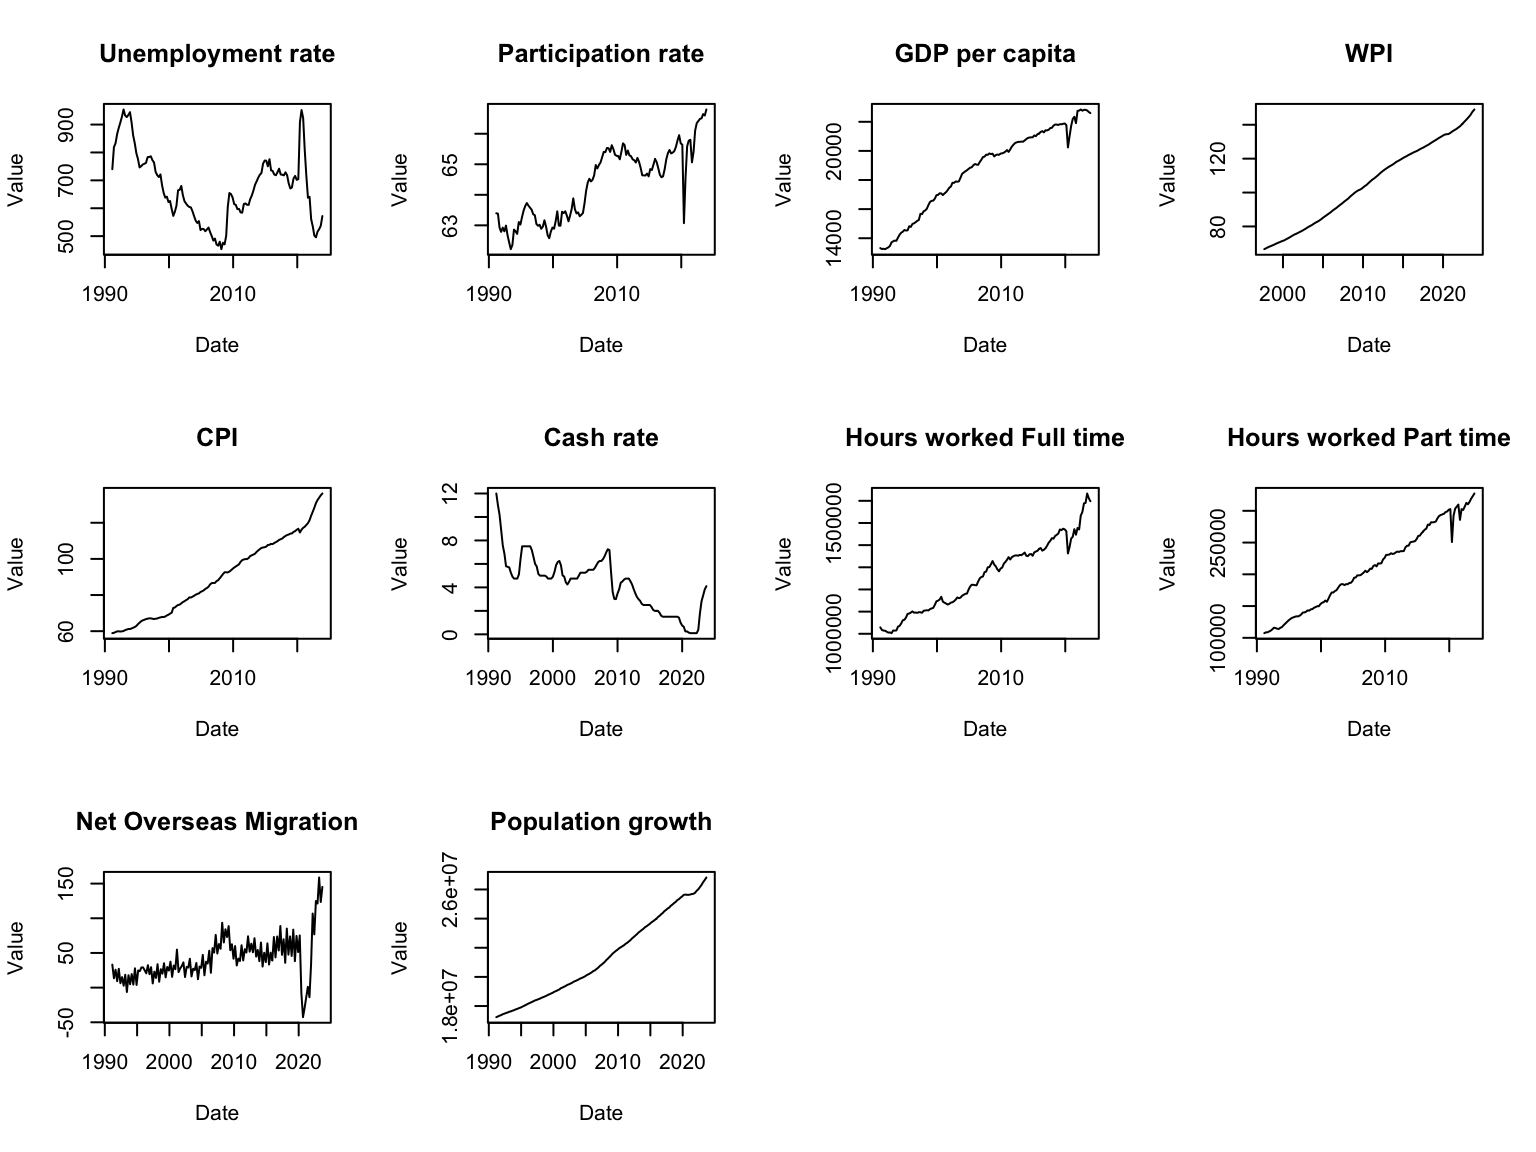
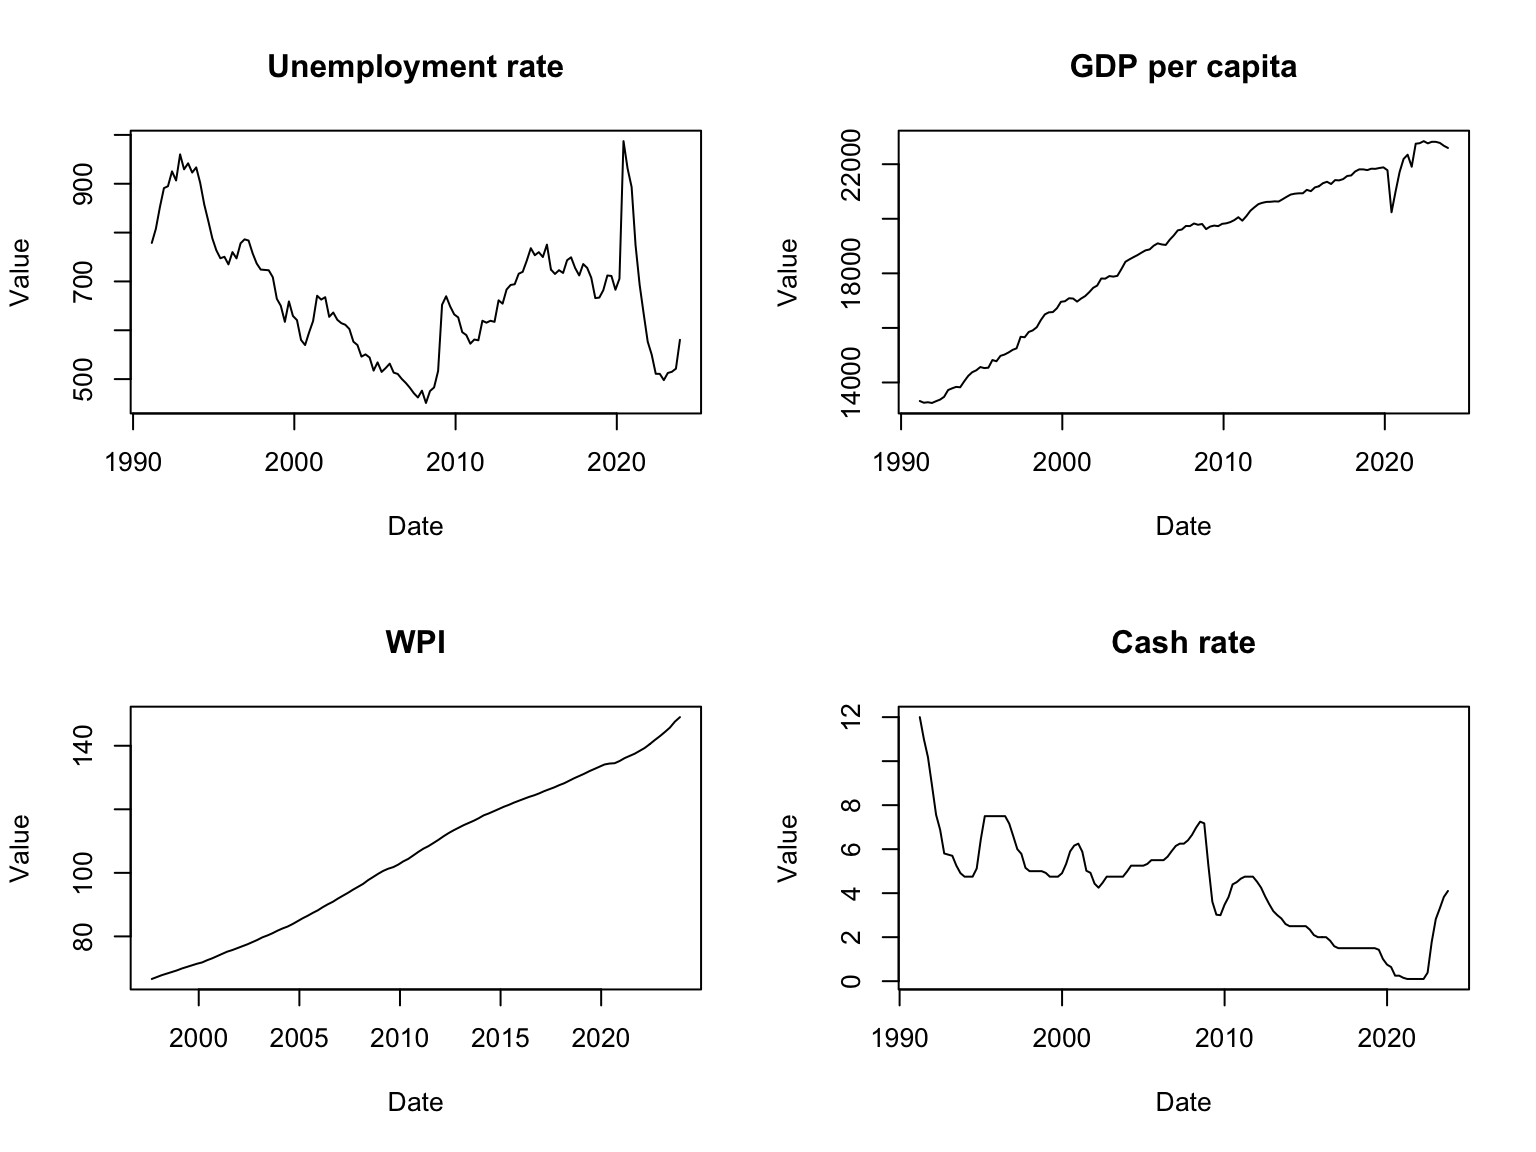
Dummy observation prior

diff --git a/docs/index.html b/docs/index.html
@@ -144,7 +144,7 @@ window.Quarto = {
   </ul></li>
   <li><a href="#extension-1-model" id="toc-extension-1-model" class="nav-link" data-scroll-target="#extension-1-model">Extension 1 Model</a>
   <ul class="collapse">
-  <li><a href="#minnesota-and-dummy-observation-prior-distribution" id="toc-minnesota-and-dummy-observation-prior-distribution" class="nav-link" data-scroll-target="#minnesota-and-dummy-observation-prior-distribution">Minnesota and Dummy Observation Prior distribution</a></li>
+  <li><a href="#minnesota-and-dummy-observation-prior-distribution" id="toc-minnesota-and-dummy-observation-prior-distribution" class="nav-link" data-scroll-target="#minnesota-and-dummy-observation-prior-distribution">Minnesota and dummy observation prior distribution</a></li>
   </ul></li>
   </ul></li>
   <li><a href="#mle" id="toc-mle" class="nav-link" data-scroll-target="#mle">MLE</a></li>
@@ -202,15 +202,9 @@ window.Quarto = {
 <p>It’s important to note that all data will be quarterly since the interest forecasting for unemployment will be conducted at a quarterly frequency. Quarterly frequency is suitable for capturing the diverse movements influencing unemployment, including short-term shocks, long-term trends, and policy changes, providing a balanced perspective.</p>
 <p><span class="math display">\[\begin{align*}
 &amp; unmp_{t} &amp; : &amp; \text{Unemployment rate} \\
-&amp; par_{t} &amp; : &amp; \text{Participation rate} \\
 &amp; gdp_{t} &amp; : &amp; \text{GDP per capita: Chain volume measures - Percentage changes} \\
-&amp; cpi_{t} &amp; : &amp; \text{Consumer price index} \\
 &amp; wpi_{t} &amp; : &amp; \text{Wage price index} \\
 &amp; cashrate_{t} &amp; : &amp; \text{Cash rate} \\
-&amp; hrfull_{t} &amp; : &amp; \text{Average hours worked Full time} \\
-&amp; hrpart_{t} &amp; : &amp; \text{Average hours worked Part time} \\
-&amp; oversea_{t} &amp; : &amp; \text{Oversea migration} \\
-&amp; pop_{t} &amp; : &amp; \text{Population growth rate} \\
 \end{align*}\]</span></p>
 </section>
 <section id="data-visualisation" class="level1">
@@ -274,16 +268,10 @@ window.Quarto = {
 <div class="cell">
 <div class="cell-output cell-output-stdout">
 <pre><code>            Dickey_Fuller p_value
-unmp_df            -2.477   0.378
-par_df             -2.180   0.502
+unmp_df            -2.581   0.335
 gdp_df             -1.823   0.650
 wpi_df             -2.181   0.502
-cpi_df             -2.804   0.242
-cashrate_df        -3.409   0.056
-hrs_full_df        -3.462   0.049
-hrs_part_df        -1.326   0.857
-oversea_df         -3.582   0.038
-pop_df             -2.065   0.550</code></pre>
+cashrate_df        -3.409   0.056</code></pre>
 </div>
 </div>
 <section id="model" class="level2">
@@ -313,7 +301,7 @@ P(S_t = j | S_{t-1} = i) &amp;= \pi_{ij}
 \sim MN(0_T, \Sigma, I_T)
 \end{align*}\]</span></p>
 <p>\begin{align*} \mathbf{Y}_t &amp; : \text{Matrix of response variables} \\ \boldsymbol{\beta} &amp; : \text{Coefficient matrix corresponding to regime state} \\ S_t &amp; : \text{Regime state} \\ \mathbf{X}_t &amp; : \text{Matrix of predictor variables} \\ \boldsymbol{\varepsilon}_t &amp; : \text{Error term vector} \end{align*}</p>
-<p>\begin{align*} \mathbf{Y}_t = \begin{pmatrix} \text{Unemployment}_t \\ \text{Participation}_t \\ \text{GDP}_t \\ \text{WPI}_t \\ \text{CPI}_t \\ \text{CashRate}_t \\ \text{HoursFull}_t \\ \text{HoursPart}_t \\ \text{OverseasMigration}_t \\ \text{Population}_t \\ \end{pmatrix} \end{align*}</p>
+<p>\begin{align*} \mathbf{Y}_t = \begin{pmatrix} \text{Unemployment}_t \\ \text{GDP}_t \\ \text{WPI}_t \\ \text{CashRate}_t \\ \end{pmatrix} \end{align*}</p>
 <p>The model’s equations include time-varying parameters, such as the coefficients of lagged variables, which adapt to changing economic conditions.</p>
 </section>
 </section>
@@ -380,9 +368,150 @@ p(\Sigma|Y,X) &amp;\sim IW_{N}(\overline{S}, \overline{v})\\
 \overline{V}^{-1}\overline{A} \\
 \end{align}\]</span></p>
 <p>1000 Sample draws from the joint distribution with Minnesota prior.</p>
-<p>Table</p>
-<p>Y.h = array(NA,c(h,N,S))</p>
-<p>for (s in 1:S){ x.Ti = Y[(nrow(Y)-h+1):nrow(Y),] x.Ti = x.Ti[4:1,] for (i in 1:h){ x.T = c(1,as.vector(t(x.Ti))) Y.h[i,,s] = rmvnorm(1, mean = x.T%*%A.posterior[,,s], sigma=Sigma.posterior[,,s]) x.Ti = rbind(Y.h[i,,s],x.Ti[1:3,]) } }</p>
+<div>
+<table data-quarto-postprocess="true" class="table">
+<caption>Posterior means table</caption>
+<thead>
+<tr class="header">
+<th style="text-align: right;" data-quarto-table-cell-role="th">1</th>
+<th style="text-align: right;" data-quarto-table-cell-role="th">2</th>
+<th style="text-align: right;" data-quarto-table-cell-role="th">3</th>
+<th style="text-align: right;" data-quarto-table-cell-role="th">4</th>
+<th style="text-align: right;" data-quarto-table-cell-role="th">5</th>
+<th style="text-align: right;" data-quarto-table-cell-role="th">6</th>
+<th style="text-align: right;" data-quarto-table-cell-role="th">7</th>
+<th style="text-align: right;" data-quarto-table-cell-role="th">8</th>
+<th style="text-align: right;" data-quarto-table-cell-role="th">9</th>
+<th style="text-align: right;" data-quarto-table-cell-role="th">10</th>
+<th style="text-align: right;" data-quarto-table-cell-role="th">11</th>
+<th style="text-align: right;" data-quarto-table-cell-role="th">12</th>
+<th style="text-align: right;" data-quarto-table-cell-role="th">13</th>
+<th style="text-align: right;" data-quarto-table-cell-role="th">14</th>
+<th style="text-align: right;" data-quarto-table-cell-role="th">15</th>
+<th style="text-align: right;" data-quarto-table-cell-role="th">16</th>
+<th style="text-align: right;" data-quarto-table-cell-role="th">17</th>
+</tr>
+</thead>
+<tbody>
+<tr class="odd">
+<td style="text-align: right;">64.928949</td>
+<td style="text-align: right;">1.074541</td>
+<td style="text-align: right;">-0.019540</td>
+<td style="text-align: right;">0.052691</td>
+<td style="text-align: right;">-0.158973</td>
+<td style="text-align: right;">-0.059927</td>
+<td style="text-align: right;">0.023773</td>
+<td style="text-align: right;">-0.012792</td>
+<td style="text-align: right;">-0.028521</td>
+<td style="text-align: right;">-0.161524</td>
+<td style="text-align: right;">-0.016416</td>
+<td style="text-align: right;">0.002111</td>
+<td style="text-align: right;">-0.000432</td>
+<td style="text-align: right;">0.042871</td>
+<td style="text-align: right;">-0.000136</td>
+<td style="text-align: right;">0.018729</td>
+<td style="text-align: right;">-0.002462</td>
+</tr>
+<tr class="even">
+<td style="text-align: right;">41.870751</td>
+<td style="text-align: right;">0.130563</td>
+<td style="text-align: right;">1.044038</td>
+<td style="text-align: right;">1.038582</td>
+<td style="text-align: right;">1.022146</td>
+<td style="text-align: right;">0.180910</td>
+<td style="text-align: right;">0.542803</td>
+<td style="text-align: right;">0.566508</td>
+<td style="text-align: right;">0.516469</td>
+<td style="text-align: right;">0.161068</td>
+<td style="text-align: right;">0.355271</td>
+<td style="text-align: right;">0.345938</td>
+<td style="text-align: right;">0.373419</td>
+<td style="text-align: right;">0.110875</td>
+<td style="text-align: right;">0.255471</td>
+<td style="text-align: right;">0.280244</td>
+<td style="text-align: right;">0.264118</td>
+</tr>
+<tr class="odd">
+<td style="text-align: right;">-0.007982</td>
+<td style="text-align: right;">0.000030</td>
+<td style="text-align: right;">0.999993</td>
+<td style="text-align: right;">-0.000018</td>
+<td style="text-align: right;">0.000097</td>
+<td style="text-align: right;">0.000027</td>
+<td style="text-align: right;">-0.000013</td>
+<td style="text-align: right;">-0.000001</td>
+<td style="text-align: right;">0.000026</td>
+<td style="text-align: right;">-0.000040</td>
+<td style="text-align: right;">0.000000</td>
+<td style="text-align: right;">-0.000002</td>
+<td style="text-align: right;">0.000011</td>
+<td style="text-align: right;">0.000001</td>
+<td style="text-align: right;">-0.000003</td>
+<td style="text-align: right;">-0.000004</td>
+<td style="text-align: right;">0.000003</td>
+</tr>
+<tr class="even">
+<td style="text-align: right;">0.011414</td>
+<td style="text-align: right;">0.000034</td>
+<td style="text-align: right;">0.000290</td>
+<td style="text-align: right;">0.000290</td>
+<td style="text-align: right;">0.000273</td>
+<td style="text-align: right;">0.000047</td>
+<td style="text-align: right;">0.000147</td>
+<td style="text-align: right;">0.000143</td>
+<td style="text-align: right;">0.000141</td>
+<td style="text-align: right;">0.000043</td>
+<td style="text-align: right;">0.000096</td>
+<td style="text-align: right;">0.000096</td>
+<td style="text-align: right;">0.000093</td>
+<td style="text-align: right;">0.000030</td>
+<td style="text-align: right;">0.000071</td>
+<td style="text-align: right;">0.000069</td>
+<td style="text-align: right;">0.000071</td>
+</tr>
+</tbody>
+</table>
+``````````{=html}
+<table data-quarto-postprocess="true" class="table">
+<caption>Posterior standard deviation table</caption>
+<thead>
+<tr class="header">
+<th style="text-align: right;" data-quarto-table-cell-role="th">1</th>
+<th style="text-align: right;" data-quarto-table-cell-role="th">2</th>
+<th style="text-align: right;" data-quarto-table-cell-role="th">3</th>
+<th style="text-align: right;" data-quarto-table-cell-role="th">4</th>
+</tr>
+</thead>
+<tbody>
+<tr class="odd">
+<td style="text-align: right;">2820.861080</td>
+<td style="text-align: right;">-0.283467</td>
+<td style="text-align: right;">-0.016480</td>
+<td style="text-align: right;">-5.437817</td>
+</tr>
+<tr class="even">
+<td style="text-align: right;">401.556190</td>
+<td style="text-align: right;">0.081118</td>
+<td style="text-align: right;">0.008126</td>
+<td style="text-align: right;">2.329402</td>
+</tr>
+<tr class="odd">
+<td style="text-align: right;">-0.283467</td>
+<td style="text-align: right;">0.000206</td>
+<td style="text-align: right;">0.000005</td>
+<td style="text-align: right;">0.000669</td>
+</tr>
+<tr class="even">
+<td style="text-align: right;">0.081118</td>
+<td style="text-align: right;">0.000028</td>
+<td style="text-align: right;">0.000002</td>
+<td style="text-align: right;">0.000634</td>
+</tr>
+</tbody>
+</table>
+
+
+</div>
 <section id="section" class="level87">
 <p class="heading"></p>
 </section>
@@ -392,26 +521,60 @@ p(\Sigma|Y,X) &amp;\sim IW_{N}(\overline{S}, \overline{v})\\
 <h2 class="anchored" data-anchor-id="extension-1-model">Extension 1 Model</h2>
 <p>Cointegration is when the non-stationary variables have an equilibrium long term relationship or a common trend. The model is extended to incorporate dummy-observation-prior, aiming to account for the potential cointegration amongst the variables, capturing the underlying economic relationships and dynamics.</p>
 <p>This approach allows us to leverage both the observed data and additional information about the structural relationships among variables, leading to more accurate parameter estimation and potentially improved forecasting performance.</p>
-<section id="minnesota-and-dummy-observation-prior-distribution" class="level3">
-<h3 class="anchored" data-anchor-id="minnesota-and-dummy-observation-prior-distribution">Minnesota and Dummy Observation Prior distribution</h3>
+<p>Dummy observation prior proposed by Doan et al.&nbsp;(1984) required a set of artificial observations for each variable.</p>
 <p><span class="math display">\[\begin{align*}
-p(A, \Sigma) = p(A \mid \Sigma) \cdot p(\Sigma) \\
-A \mid \Sigma \sim \text{MN}_{K \times N} (\underline{A}, \Sigma, \underline{V}, \lambda) \\
-\Sigma \sim  \text{IW}_{N} (\underline{S}, \underline{v})\\
+\underset{4\times 4}y^{+} &amp;= diag(\frac{\overline{y_0}}{\mu}) \\
+\underset{4 \times (1+4\times 4)}{x^{+}} &amp;= [\underset{n \times 1}0,y^{+},...,y^{+}]
 \end{align*}\]</span></p>
-<p>With lags = 4 and N = 4</p>
-Prior covariance matrix
-<span class="math display">\[\begin{bmatrix}
-k_2 &amp; 0 &amp; 0 &amp; 0 &amp; 0 &amp; 0 &amp; 0 &amp; 0 &amp; 0 \\
-0 &amp; \frac{k_1}{\lambda} &amp; 0 &amp; 0 &amp; 0 &amp; 0 &amp; 0 &amp; 0 &amp; 0 \\
-0 &amp; 0 &amp; \frac{k_1}{\lambda} &amp; 0 &amp; 0 &amp; 0 &amp; 0 &amp; 0 &amp; 0 \\
-0 &amp; 0 &amp; 0 &amp; \frac{k_1}{\lambda} &amp; 0 &amp; 0 &amp; 0 &amp; 0 &amp; 0 \\
-0 &amp; 0 &amp; 0 &amp; 0 &amp; \frac{k_1}{\lambda} &amp; 0 &amp; 0 &amp; 0 &amp; 0 \\
-0 &amp; 0 &amp; 0 &amp; 0 &amp; 0 &amp; \frac{k_1}{4\lambda} &amp; 0 &amp; 0 &amp; 0 \\
-0 &amp; 0 &amp; 0 &amp; 0 &amp; 0 &amp; 0 &amp; \frac{k_1}{4\lambda} &amp; 0 &amp; 0 \\
-0 &amp; 0 &amp; 0 &amp; 0 &amp; 0 &amp; 0 &amp; 0 &amp; \frac{k_1}{4\lambda} &amp; 0 \\
-0 &amp; 0 &amp; 0 &amp; 0 &amp; 0 &amp; 0 &amp; 0 &amp; 0 &amp; \frac{k_1}{4\lambda} \\
-\end{bmatrix}\]</span>
+<p>To be consistent with cointegration, an additional prior proposed by Sims (1993) is also added. <span class="math display">\[\begin{align*}
+\underset{1\times 4}y^{++} &amp;= \frac{\overline{y_0}^{'}}{\delta}\\
+\underset{1 \times (1+4\times 4)}{x^{++}} &amp;= [\frac{1}{\delta},y^{++},...,y^{++}]\\
+\end{align*}\]</span> <span class="math display">\[\begin{align*}
+&amp; \overline{y_0} : \text{average of the first 4 lag observations for each variable}\\
+&amp; \mu: \text{controls variance }\\
+&amp; \delta: \text{controls the tightness of the prior}
+\end{align*}\]</span></p>
+<p>From the above, the following matrix form is created: <span class="math display">\[\begin{align*}
+Y^{+} &amp; = X^{+}A+E^{+} \\
+Y^{+} &amp; = \begin{bmatrix}
+\frac{\overline{y_0}_1}{\mu} &amp; 0 &amp; 0 &amp; 0 \\
+0 &amp; \frac{\overline{y_0}_2}{\mu} &amp; 0 &amp; 0 \\
+0 &amp; 0 &amp; \frac{\overline{y_0}_3}{\mu} &amp; 0 \\
+0 &amp; 0 &amp; 0 &amp; \frac{\overline{y_0}_4}{\mu} \\
+\frac{\overline{y_0}_1}{\delta} &amp; \frac{\overline{y_0}_2}{\delta} &amp; \frac{\overline{y_0}_3}{\delta} &amp; \frac{\overline{y_0}_4}{\delta} \\
+\end{bmatrix}
+\end{align*}\]</span></p>
+<p><span class="math display">\[\begin{align*}
+X^{+} = \begin{bmatrix}
+0 &amp; \frac{\overline{y_0}_1}{\mu} &amp; 0 &amp; 0 &amp; 0 &amp; \cdots &amp; 0 \\
+0 &amp; 0 &amp; \frac{\overline{y_0}_2}{\mu} &amp; 0 &amp; 0 &amp; \cdots &amp; 0 \\
+0 &amp; 0 &amp; 0 &amp; \frac{\overline{y_0}_3}{\mu} &amp; 0 &amp; \cdots &amp; 0 \\
+0 &amp; 0 &amp; 0 &amp; 0 &amp; \frac{\overline{y_0}_4}{\mu} &amp; \cdots &amp; \frac{\overline{y_0}_4}{\mu} \\
+\frac{1}{\delta} &amp; \frac{\overline{y_0}_1}{\delta} &amp; \frac{\overline{y_0}_2}{\delta} &amp; \frac{\overline{y_0}_3}{\delta} &amp; \frac{\overline{y_0}_4}{\delta} &amp; \cdots &amp; \frac{\overline{y_0}_4}{\delta} \\
+\end{bmatrix}
+\end{align*}\]</span></p>
+<p>The prior distribution is</p>
+<p><span class="math display">\[\begin{align*}
+A \mid \Sigma &amp;\sim \text{MN}_{K \times N} (\underline{A}^{+}, \Sigma, \underline{V}^{+}) \\
+\Sigma &amp;\sim  \text{IW}_{N} (\underline{S}^{+}, \underline{v}^{+})\\
+\\
+\underline{A}^{+} &amp;= (X^{+'}X )^{-1}X^{+'}Y^{+} \\
+\underline{V}^{+} &amp;= (X^{+'}X )^{-1} \\
+\underline{v}^{+} &amp;= T^{+} - K - N - 1\\
+\underline{S}^{+} &amp;= (Y^{+}-X^{+}\underline{A}^{+})^{'}(Y^{+}-X^{+}\underline{A}^{+})\\
+\end{align*}\]</span></p>
+<section id="minnesota-and-dummy-observation-prior-distribution" class="level3">
+<h3 class="anchored" data-anchor-id="minnesota-and-dummy-observation-prior-distribution">Minnesota and dummy observation prior distribution</h3>
+<p>The newly created matrix specified the model has 5 dummy observations. The above prior distribution is likely to encounter the problem of not having enough observations and lead to many challenges to meet the requirements for degree of freedom or invertibility of matrices. To resolve this, the combination of specifying the prior through both Normal inverse Wishart and dummy-observations is proposed.</p>
+<p><span class="math display">\[\begin{align*}
+A \mid \Sigma &amp;\sim \text{MN}_{K \times N} (\overset{~}{A}, \Sigma, \overset{~}{V}) \\
+\Sigma &amp;\sim  \text{IW}_{N} (\overset{~}{S}, \overset{~}{v})\\
+\\
+\overset{~}{A} &amp;= \overset{~}{V}(X^{+'}Y{+}+\underline{V}^{-1}\underline{A}) \\
+\overset{~}{V} &amp;= (X^{+'}X^{+} + \underline{V}^{-1})^{-1} \\
+\overset{~}{v} &amp;= T^{+} + \underline{v} \\
+\overset{~}{S} &amp;= \underline{S}+Y^{+'}Y^{+}+\underline{A}'\underline{V}^{-1}\underline{A} -\overset{~}{A}'\overset{~}{V}^{-1}\overset{~}{A} \\
+\end{align*}\]</span></p>
 </section>
 </section>
 </section>
